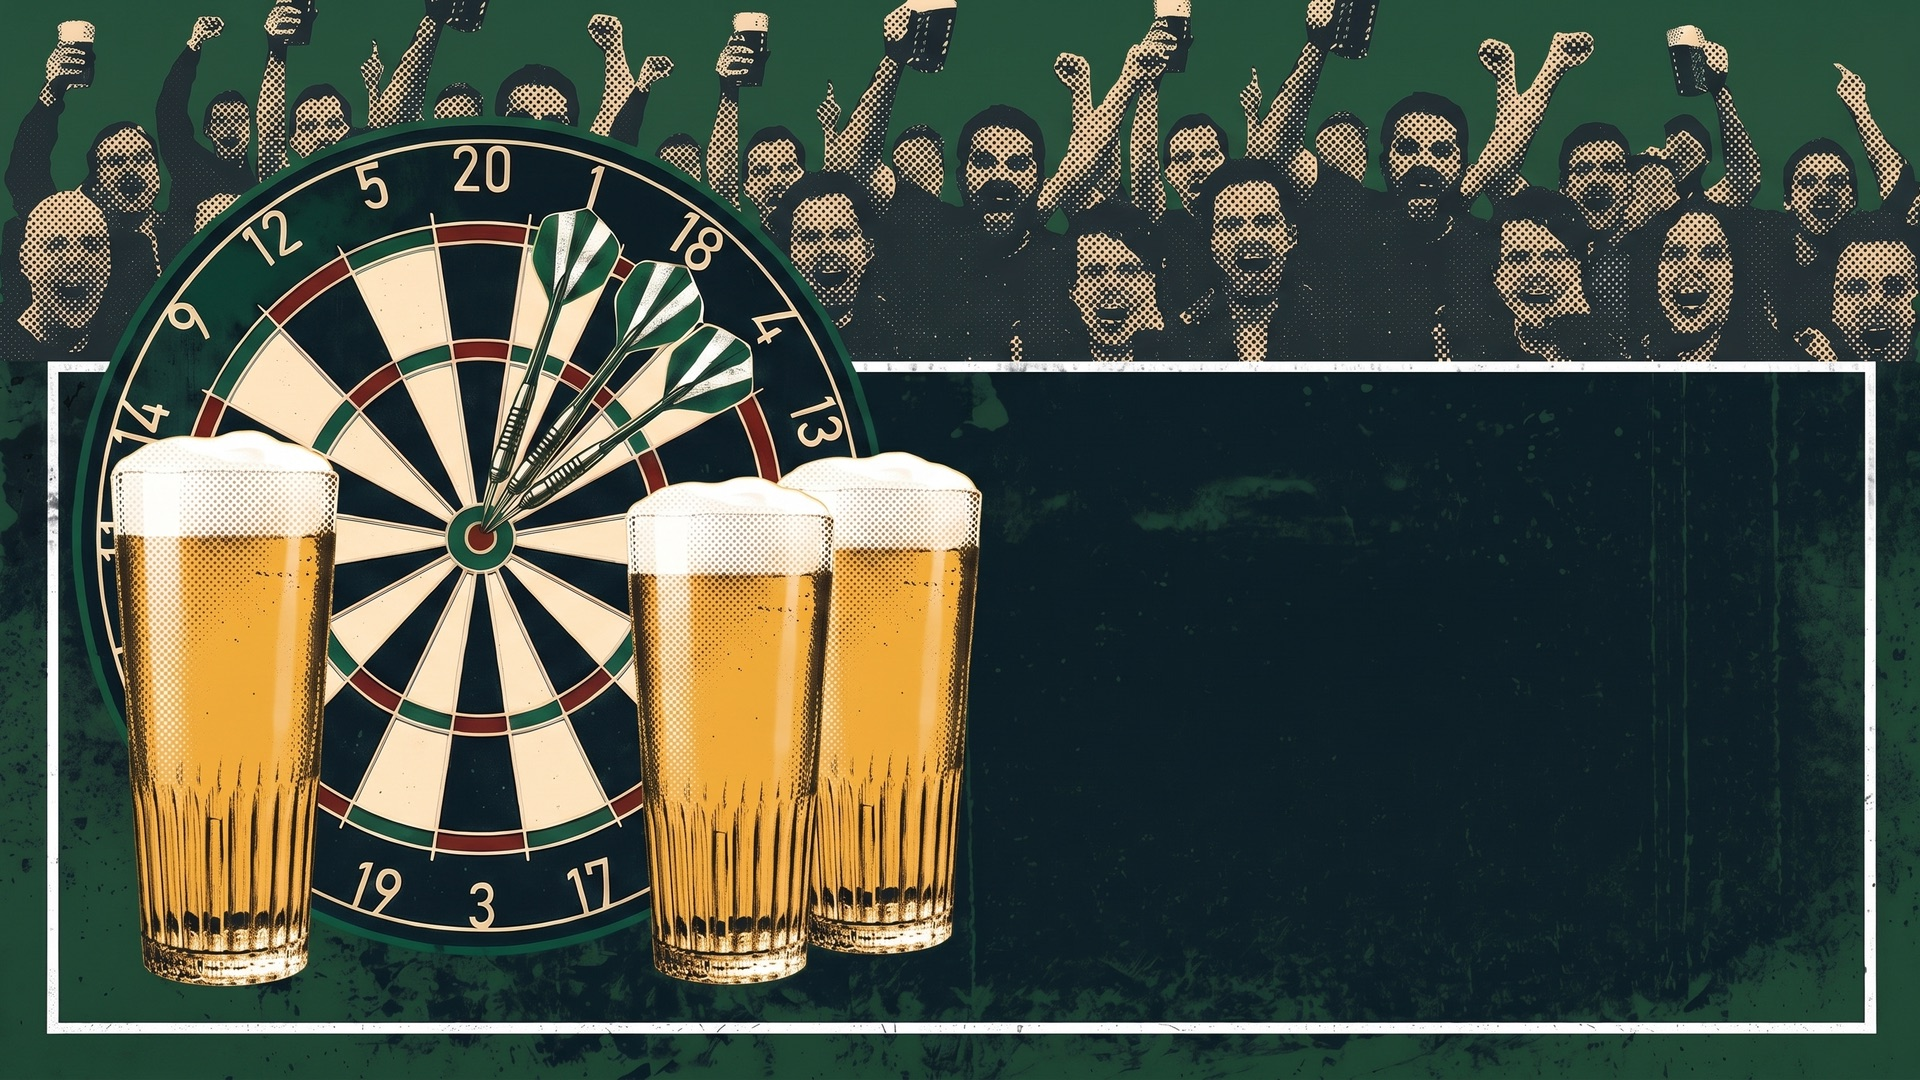
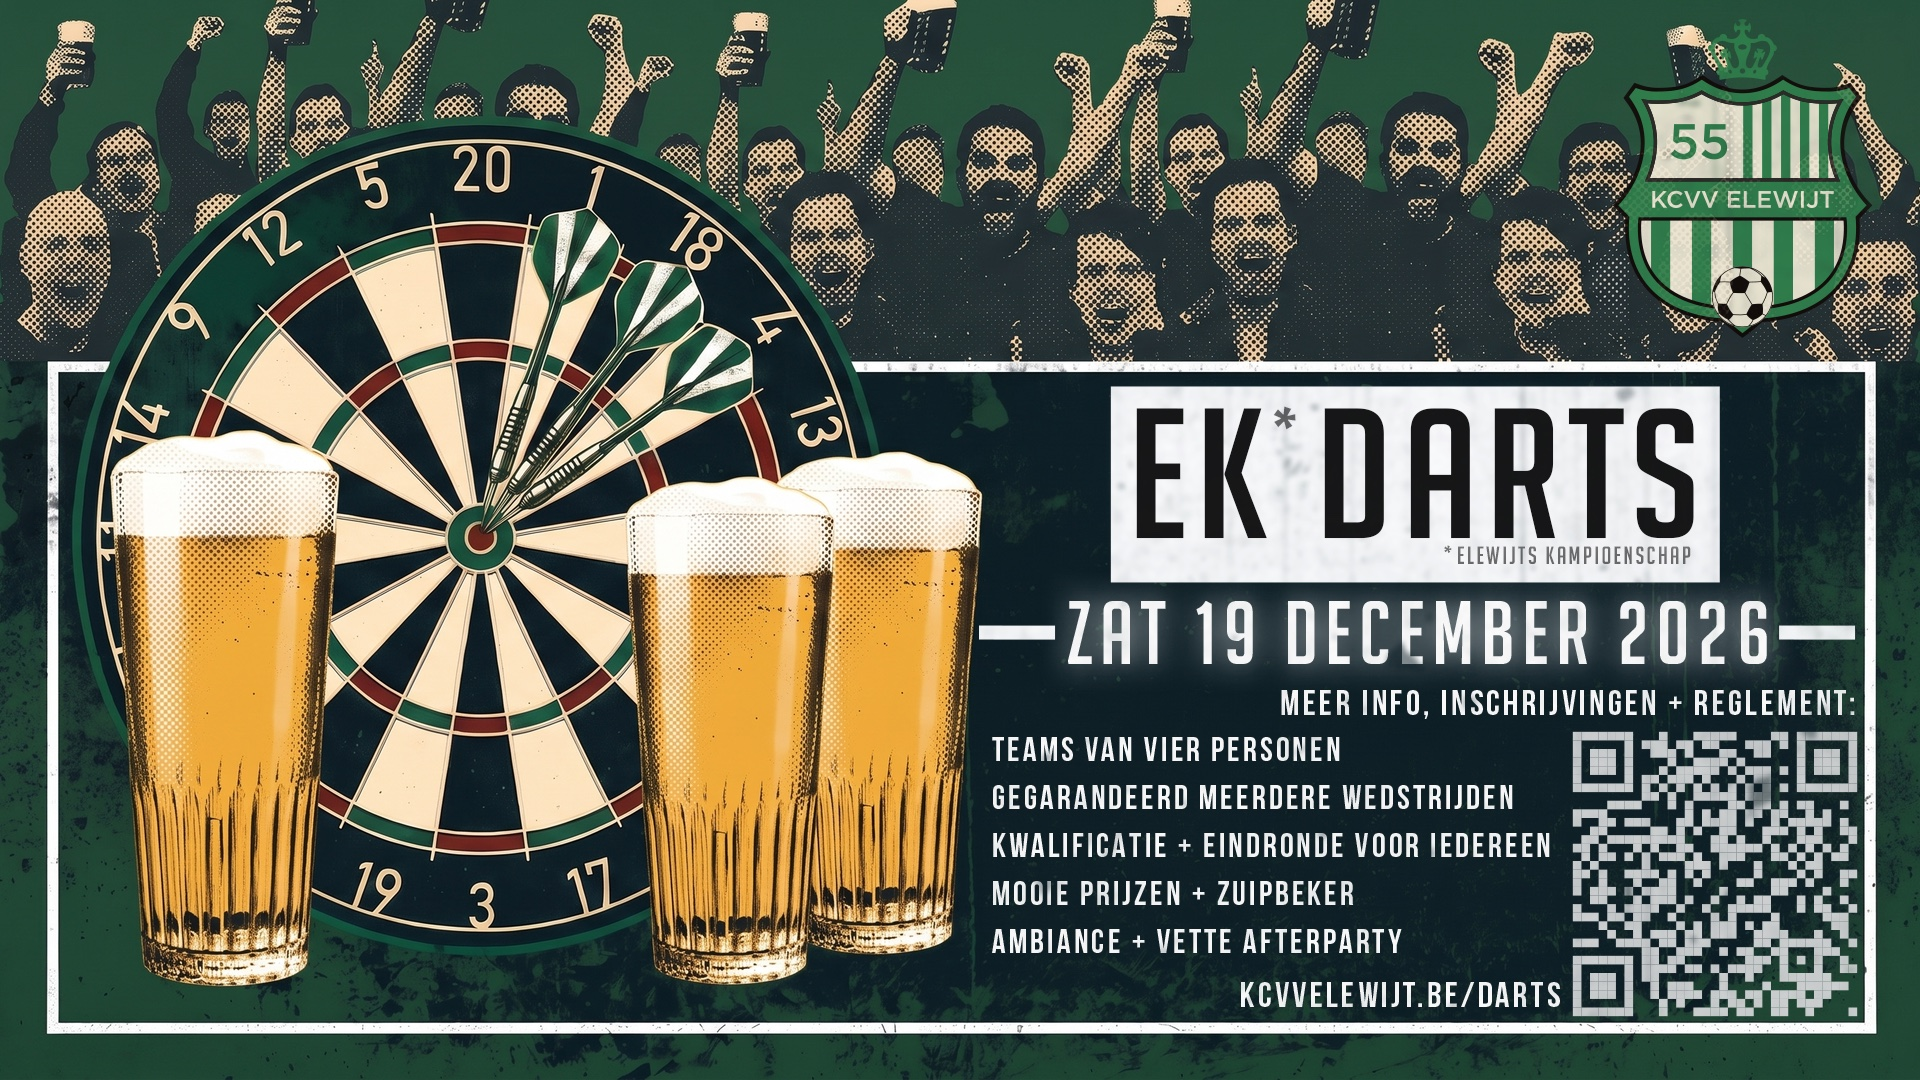
PROTOTYPE: the hero is the TV affiche WITH text, not the bare plate
Kevin, 2026-09-10: "for both hero images, use the LIGGEND - TV FINAL btw, WITH
text in the image, not the clear one you used now."

That file had no export — only "EK Darts 2026 - AFFICHE FINAL - LIGGEND
1920x1080.psd". Flattened to a 913 KB JPG and written back next to its source in
~/Documents/KCVV/Graphics/Darts 2026/, so the next person who needs it does not
have to open Photoshop.

The picture now carries the date, the five bullets and the QR as pixels, so the
alt text has to carry them too — a short alt would lose all of it for anyone who
cannot see the image.

Claude-Session: https://claude.ai/code/session_01KbSV22toTX4NchzofcYyM4

Changed region(s): [[0.5, 0.3361, 0.9688, 0.9472], [0.8438, 0.0306, 0.9688, 0.3056]]

diff --git a/src/pages/darts-prototype.tsx b/src/pages/darts-prototype.tsx
@@ -42,7 +42,7 @@ const uren = darts.uren.dummy
 const VariantA = () => (
   <>
     <div className="dp-a__cover">
-      <img src={POSTER} alt="EK Darts 2026 — zaterdag 19 december" />
+      <img src={POSTER} alt="Affiche EK Darts 2026 — zaterdag 19 december 2026, kantine KCVV Elewijt. Teams van vier personen, gegarandeerd meerdere wedstrijden, kwalificatie en eindronde voor iedereen, mooie prijzen en een vette afterparty." />
     </div>
     <div className="dp-a__band">
       <div className="dp-a__band-inner">
@@ -106,7 +106,7 @@ const VariantB = () => (
   <>
     <div className="dp-b__hero">
       <div className="dp-b__hero-img">
-        <img src={POSTER} alt="EK Darts 2026" />
+        <img src={POSTER} alt="Affiche EK Darts 2026 — zaterdag 19 december 2026, kantine KCVV Elewijt. Teams van vier personen, gegarandeerd meerdere wedstrijden, kwalificatie en eindronde voor iedereen, mooie prijzen en een vette afterparty." />
       </div>
       <div className="dp-b__hero-panel">
         <p className="dp-b__kicker">{darts.tagline}</p>
@@ -188,7 +188,7 @@ const VariantC = () => (
         <p className="dp-c__lead">
           {darts.datum.tekst} — {darts.waar.naam}. {darts.formule.ploeg}, {darts.formule.ontmoeting}.
         </p>
-        <img className="dp-c__poster" src={POSTER} alt="EK Darts 2026" />
+        <img className="dp-c__poster" src={POSTER} alt="Affiche EK Darts 2026 — zaterdag 19 december 2026, kantine KCVV Elewijt. Teams van vier personen, gegarandeerd meerdere wedstrijden, kwalificatie en eindronde voor iedereen, mooie prijzen en een vette afterparty." />
         <h2>Wat het is</h2>
         <p>
           {darts.formule.verloop}. Gegarandeerd meerdere wedstrijden, kwalificatie en eindronde voor iedereen, mooie
@@ -246,7 +246,7 @@ const VariantC = () => (
 const VariantD = () => (
   <>
     <div className="dp-a__cover">
-      <img src={POSTER} alt="EK Darts 2026 — zaterdag 19 december" />
+      <img src={POSTER} alt="Affiche EK Darts 2026 — zaterdag 19 december 2026, kantine KCVV Elewijt. Teams van vier personen, gegarandeerd meerdere wedstrijden, kwalificatie en eindronde voor iedereen, mooie prijzen en een vette afterparty." />
     </div>
 
     <section className="dp-d__facts">
